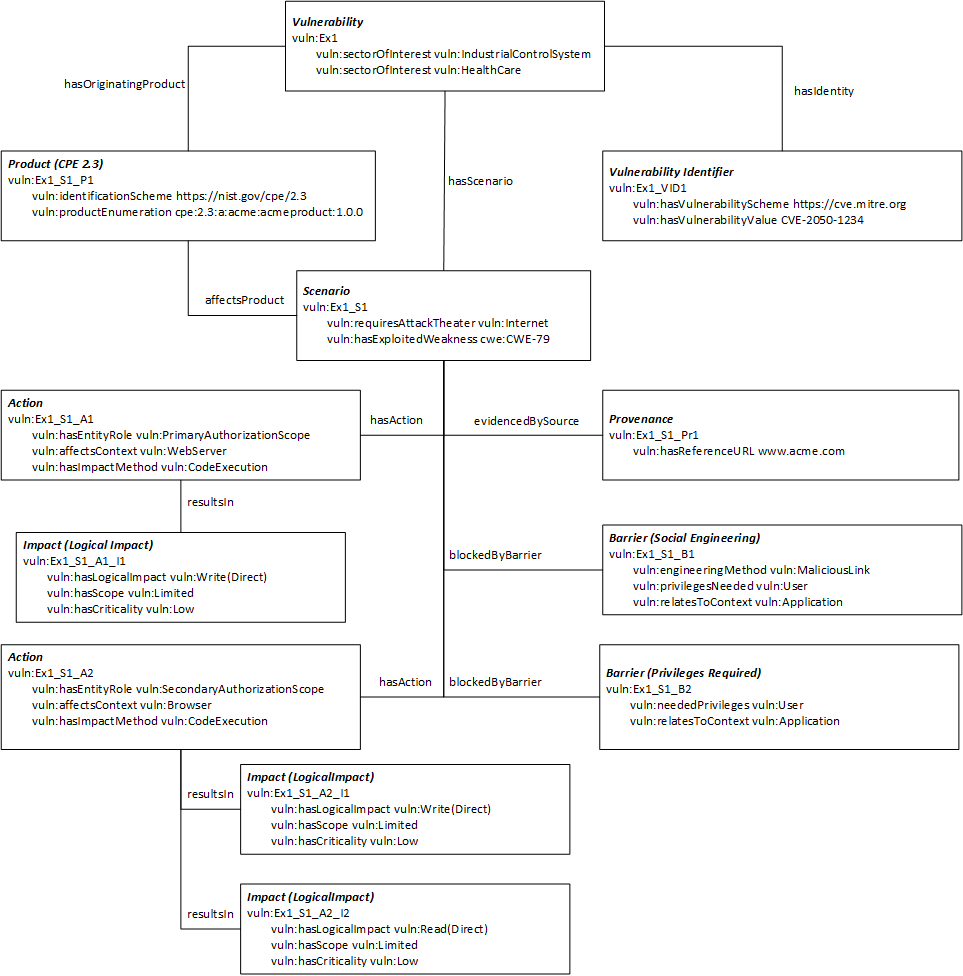
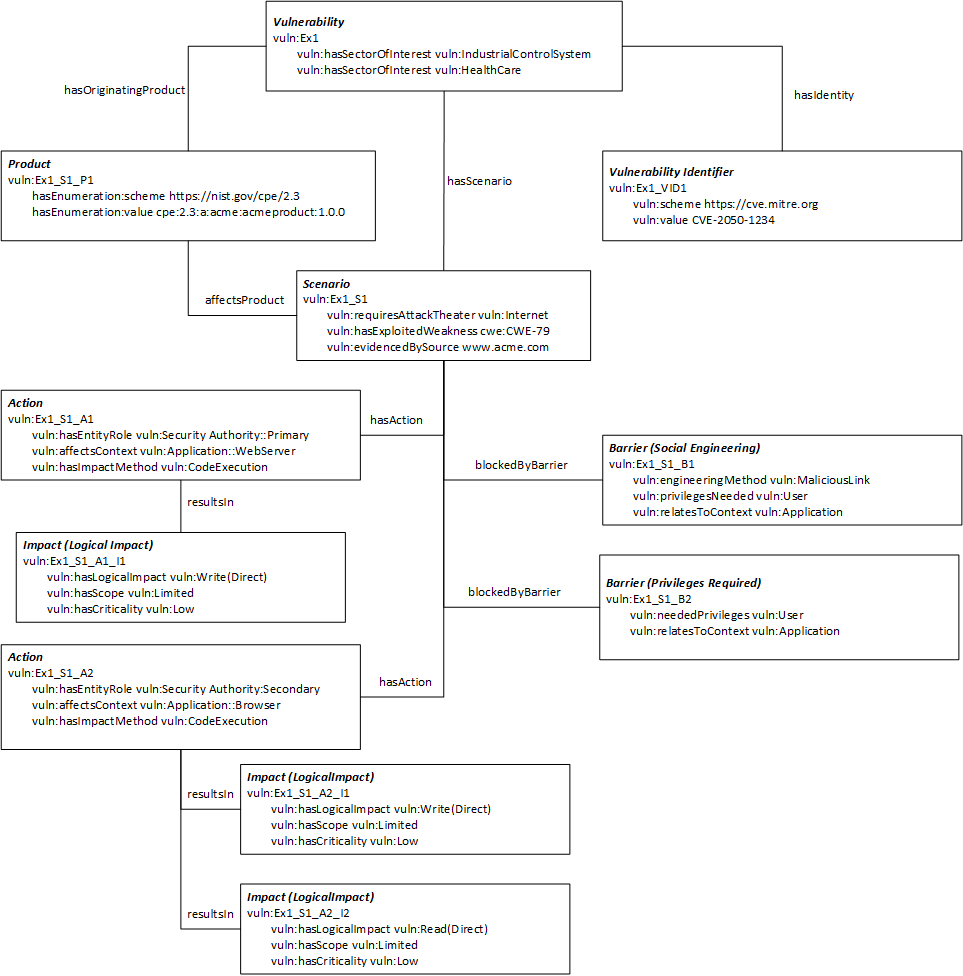
Updated examples to align with recent changes

diff --git a/examples/xss-example-human-text.md b/examples/xss-example-human-text.md
@@ -16,9 +16,9 @@ The **vulnerability** [*CVE-2050-1234*] has [**one**] **scenario** that is an [*
 The [**first**] **scenario** is *evidenced by* [*www.acme.com*]<br />
 The [**first**] **scenario** *affects product* [*Acme Acmeproduct 1.0.0.*] <br />
 The [**first**] **scenario** is *blocked by* **social engineering** of an [*application*] [*user*] via a [*malicious link*] and requiring [*user*] [*application*] **privileges**. <br />
-The [**first**] **action** of the [**first**] **scenario** is [*code execution*] to the [*webserver*] which is the [*primary authorization scope*].<br />
+The [**first**] **action** of the [**first**] **scenario** is [*code execution*] to the [*webserver*] which is the [*primary security authority*].<br />
 The [**first**] **impact** of the [**first**] **action** is a [*low*] *criticality*, [*limited*] *scope*, [*direct write*].<br />
-The [**second**] **action** of the [**first**] **scenario** is [*code execution*] to the [*browser*] which is the [*secondary authorization scope*].<br />
+The [**second**] **action** of the [**first**] **scenario** is [*code execution*] to the [*browser*] which is the [*secondary security authority*].<br />
 The [**first**] **impact** of the [**second**] **action** is a [*low*] *criticality*, [*limited*] *scope*, [*direct write*].<br />
 The [**second**] **impact** of the [**second**] **action** is a [*low*] *criticality*, [*limited*] *scope*, [*direct read*]. <br />
 
